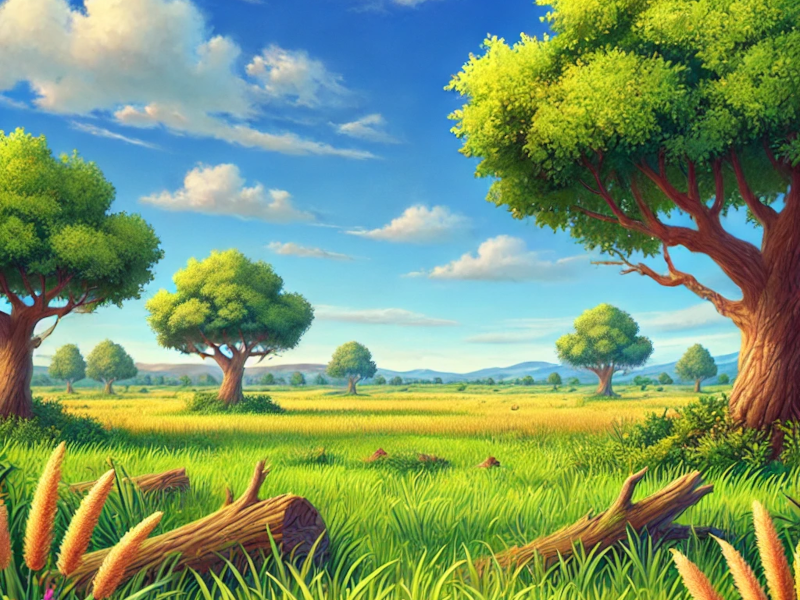
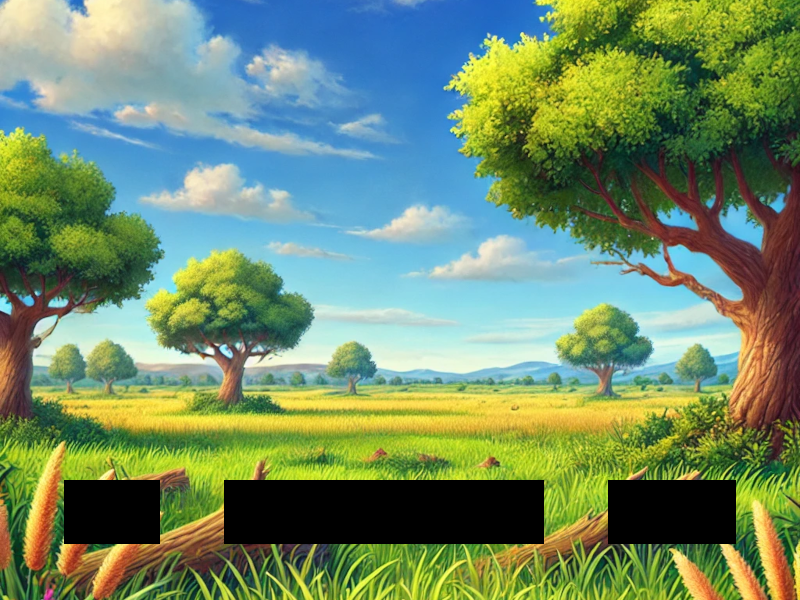
Added user interface layer

Changed region(s): [[0.2812, 0.78, 0.6875, 0.93], [0.75, 0.78, 0.9375, 0.93], [0.0625, 0.78, 0.2188, 0.93]]

diff --git a/src/play.cpp b/src/play.cpp
@@ -8,10 +8,25 @@
 #include "player.h"                         // for Player
 #include "screens.h"                        // for ScreenType, Screens
 #include "state.h"                          // for GameState, GameStateType
+#include "user-interface.h"                 // for UserInterface
+class Animator;
 namespace sf { class RenderTarget; }  // lines 11-11
 
-Play::Play(Graphics& _graphics, Screens& _screens, std::list<Actor*>& _actors, GameState* _gameState)
-    : graphics(_graphics), screens(_screens), gameState(_gameState), actors(_actors) {}
+Play::Play(
+    Graphics& _graphics,
+    Screens& _screens,
+    std::list<Actor*>& _actors,
+    GameState* _gameState,
+    Animator& animator
+)
+    : graphics(_graphics), screens(_screens), gameState(_gameState), actors(_actors)
+{
+    userInterface = new UserInterface(gameState, animator);
+}
+
+Play::~Play() {
+    delete userInterface;
+}
 
 void Play::run(bool handleInput) {
     update();
@@ -105,4 +120,6 @@ void Play::draw() {
     for (Actor* actor : actors) {
         actor->draw(renderTarget);
     }
+
+    userInterface->draw(graphics.getCanvas());
 }

diff --git a/src/user-interface.cpp b/src/user-interface.cpp
@@ -1,0 +1,34 @@
+#include "user-interface.h"
+#include "animations.h"  // for AnimationIndex
+#include "animator.h"    // for Animator
+#include "state.h"       // for GameState
+
+UserInterface::UserInterface(
+    GameState* _gameState, Animator& _animator
+) : animator(_animator), gameState(_gameState) {}
+
+UserInterface::~UserInterface() {
+
+}
+
+void UserInterface::draw(sf::RenderTarget& target) {
+    for (int i = 0; i < gameState->getBullets(); i++) {
+        animator.draw(
+            target,
+            static_cast<float>(bulletsOffsetX + (i * 32)),
+            offsetY,
+            Animations::AnimationIndex::BULLET,
+            0
+        );
+    }
+
+    for (int i = 0; i < gameState->getDucksShot(); i++) {
+        animator.draw(
+            target,
+            static_cast<float>(ducksOffsetX + (i * 32)),
+            offsetY,
+            Animations::AnimationIndex::RED_DUCK,
+            0
+        );
+    }
+}

diff --git a/src/game.cpp b/src/game.cpp
@@ -149,16 +149,6 @@ void Game::handleFinishedState() {
     drawText("Congratulations! You beat the game!");
 }
 
-bool Game::initialize() {
-    std::cout << "Initializing...\n";
-    gameState = new GameState(clock);
-    input.setWindow(graphics.getWindow());
-    resetActors();
-    play = new Play(graphics, screens, actors, gameState);
-
-    return true;
-}
-
 void Game::handleResetState() {
     resetActors();
     gameState->reloadBullets();
@@ -191,6 +181,15 @@ void Game::drawText(const std::string& str) {
 void Game::resetActors() {
     actors.clear();
     actors.push_back(new Player(input, animator));
+}
+
+bool Game::initialize() {
+    std::cout << "Initializing...\n";
+    gameState = new GameState(clock);
+    input.setWindow(graphics.getWindow());
+    resetActors();
+    play = new Play(graphics, screens, actors, gameState, animator);
+    return true;
 }
 
 void Game::cleanup() {

diff --git a/src/play.h b/src/play.h
@@ -2,10 +2,12 @@
 #define PLAY_H
 
 #include <list>  // for list
-class Actor;  // lines 6-6
-class GameState;
-class Graphics;  // lines 7-7
-class Screens;  // lines 8-8
+class Actor;  // lines 7-7
+class Animator;
+class GameState;  // lines 8-8
+class Graphics;  // lines 9-9
+class Screens;  // lines 10-10
+class UserInterface;
 
 class Play {
 public:
@@ -13,8 +15,10 @@ public:
         Graphics& graphics,
         Screens& screens,
         std::list<Actor*>& actors,
-        GameState* gameState
+        GameState* gameState,
+        Animator& animator
     );
+    ~Play();
     void run(bool handleInput);
 
 private:
@@ -25,6 +29,7 @@ private:
     Screens& screens;
     GameState* gameState;
     std::list<Actor*>& actors;
+    UserInterface* userInterface;
 };
 
 #endif // PLAY_H

diff --git a/src/animations.h b/src/animations.h
@@ -8,15 +8,21 @@ namespace Animations {
         CROSSHAIRS = 0,
         FLY_HORIZONTAL_RIGHT = 1,
         SHOT = 2,
-        FALLING = 3
+        FALLING = 3,
+        BULLET = 4,
+        WHITE_DUCK = 5,
+        RED_DUCK = 6
         // Add other animation indices here
     };
 
     const std::vector<std::vector<int>> animations = {
-        {0}, // CROSSHAIRS
-        {1, 2}, // FLY_HORIZONTAL_RIGHT
-        {3}, // SHOT
-        {4, 5} // FALLING
+        {0}, // 0 CROSSHAIRS
+        {1, 2}, // 1 FLY_HORIZONTAL_RIGHT
+        {3}, // 2 SHOT
+        {4, 5}, // 3 FALLING
+        {6}, // 4 Bullet
+        {7}, // 5 White duck
+        {8} // 6 Red duck
         // Add other animations here
     };
 }

diff --git a/src/user-interface.h b/src/user-interface.h
@@ -1,0 +1,25 @@
+#ifndef USER_INTERFACE
+#define USER_INTERFACE
+
+#include "constants.h"  // for UNIT_SIZE
+class Animator;
+class GameState;
+namespace sf { class RenderTarget; }  // lines 7-7
+
+using namespace Constants;
+
+class UserInterface {
+public:
+    UserInterface(GameState* _gameState, Animator& _animator);
+    ~UserInterface();
+    void draw(sf::RenderTarget& target);
+
+private:
+    static constexpr float bulletsOffsetX = UNIT_SIZE + 64;
+    static constexpr float ducksOffsetX = UNIT_SIZE + 224;
+    static constexpr float offsetY = UNIT_SIZE + 512;
+    Animator& animator;
+    GameState* gameState;
+};
+
+#endif

diff --git a/src/frames.cpp b/src/frames.cpp
@@ -13,6 +13,9 @@ Frames::Frames() {
     addFrame(384, 0, 128, 128); // 3 shot
     addFrame(0, 128, 128, 128); // 4 Falling, LTR
     addFrame(128, 128, 128, 128); // 5 Falling, RTL
+    addFrame(255, 128, 32, 32); // 6 Bullet
+    addFrame(287, 128, 32, 32); // 7 White ducky
+    addFrame(319 + 64, 128, 32, 32); // 8 Red ducky
 }
 
 void Frames::loadTexture(const std::string& filePath) {

diff --git a/src/duck.h b/src/duck.h
@@ -37,7 +37,7 @@ private:
     static constexpr double LOWER_BOUND = SCREEN_HEIGHT * 0.8;
     static constexpr double TIME_TO_DIRECTION_CHANGE = 500;
     static constexpr double TIME_TO_FALL = 500;
-    static constexpr double MOVING_SPEED = 800;
+    static constexpr double MOVING_SPEED = 400;
     static constexpr double FALLING_SPEED = 300;
 
     ClockType::time_point startTime;

diff --git a/src/game.h b/src/game.h
@@ -9,9 +9,9 @@
 #include "input.h"     // for Input
 #include "screens.h"   // for Screens
 #include "text.h"      // for Text
-class Actor;  // lines 11-11
-class GameState;  // lines 12-12
-class Play;  // lines 13-13
+class Actor;  // lines 13-13
+class GameState;  // lines 14-14
+class Play;  // lines 15-15
 
 class Game {
 public:
